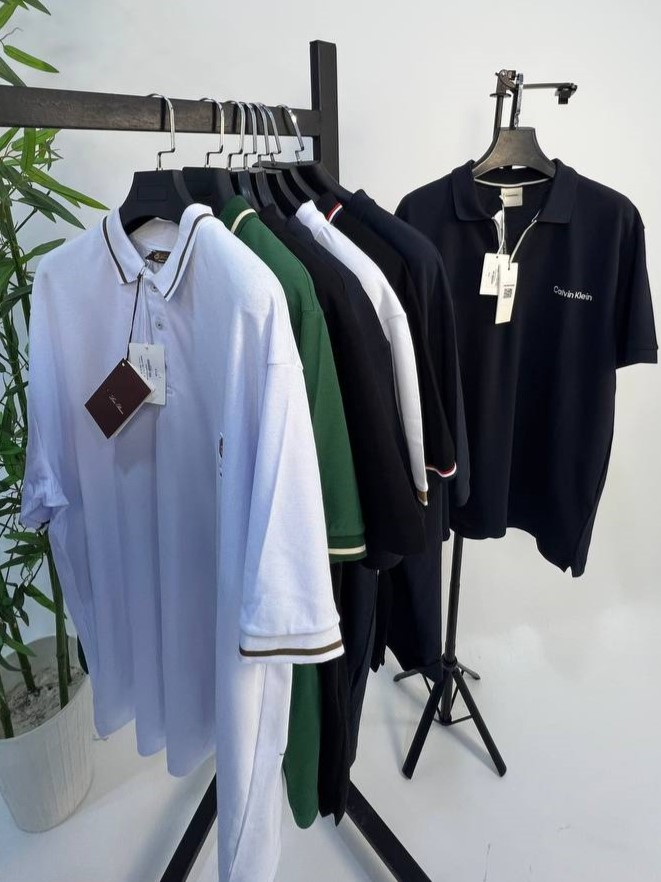
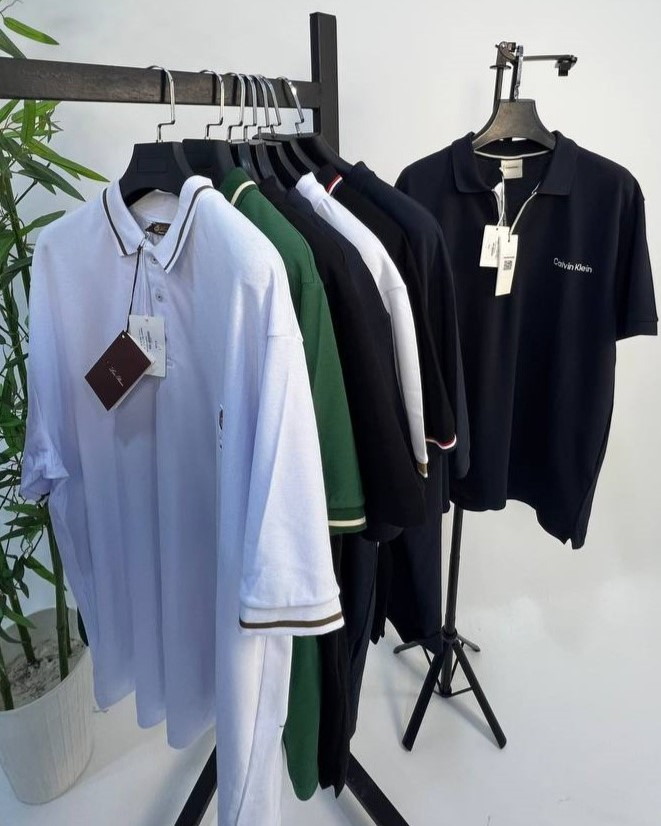
اضافه تديلات على لون الخلفيه

diff --git a/index.html b/index.html
@@ -70,7 +70,7 @@
     :root {
       /* ── الألوان — Luxury Gold Theme ── */
       --ink: #1a1a1a;
-      --paper: #faf9f6;
+      --paper: #fcfcfc;
       --accent: #c9a84c;
       --accent-light: #d4b968;
       --accent-glow: rgba(201, 168, 76, 0.25);
